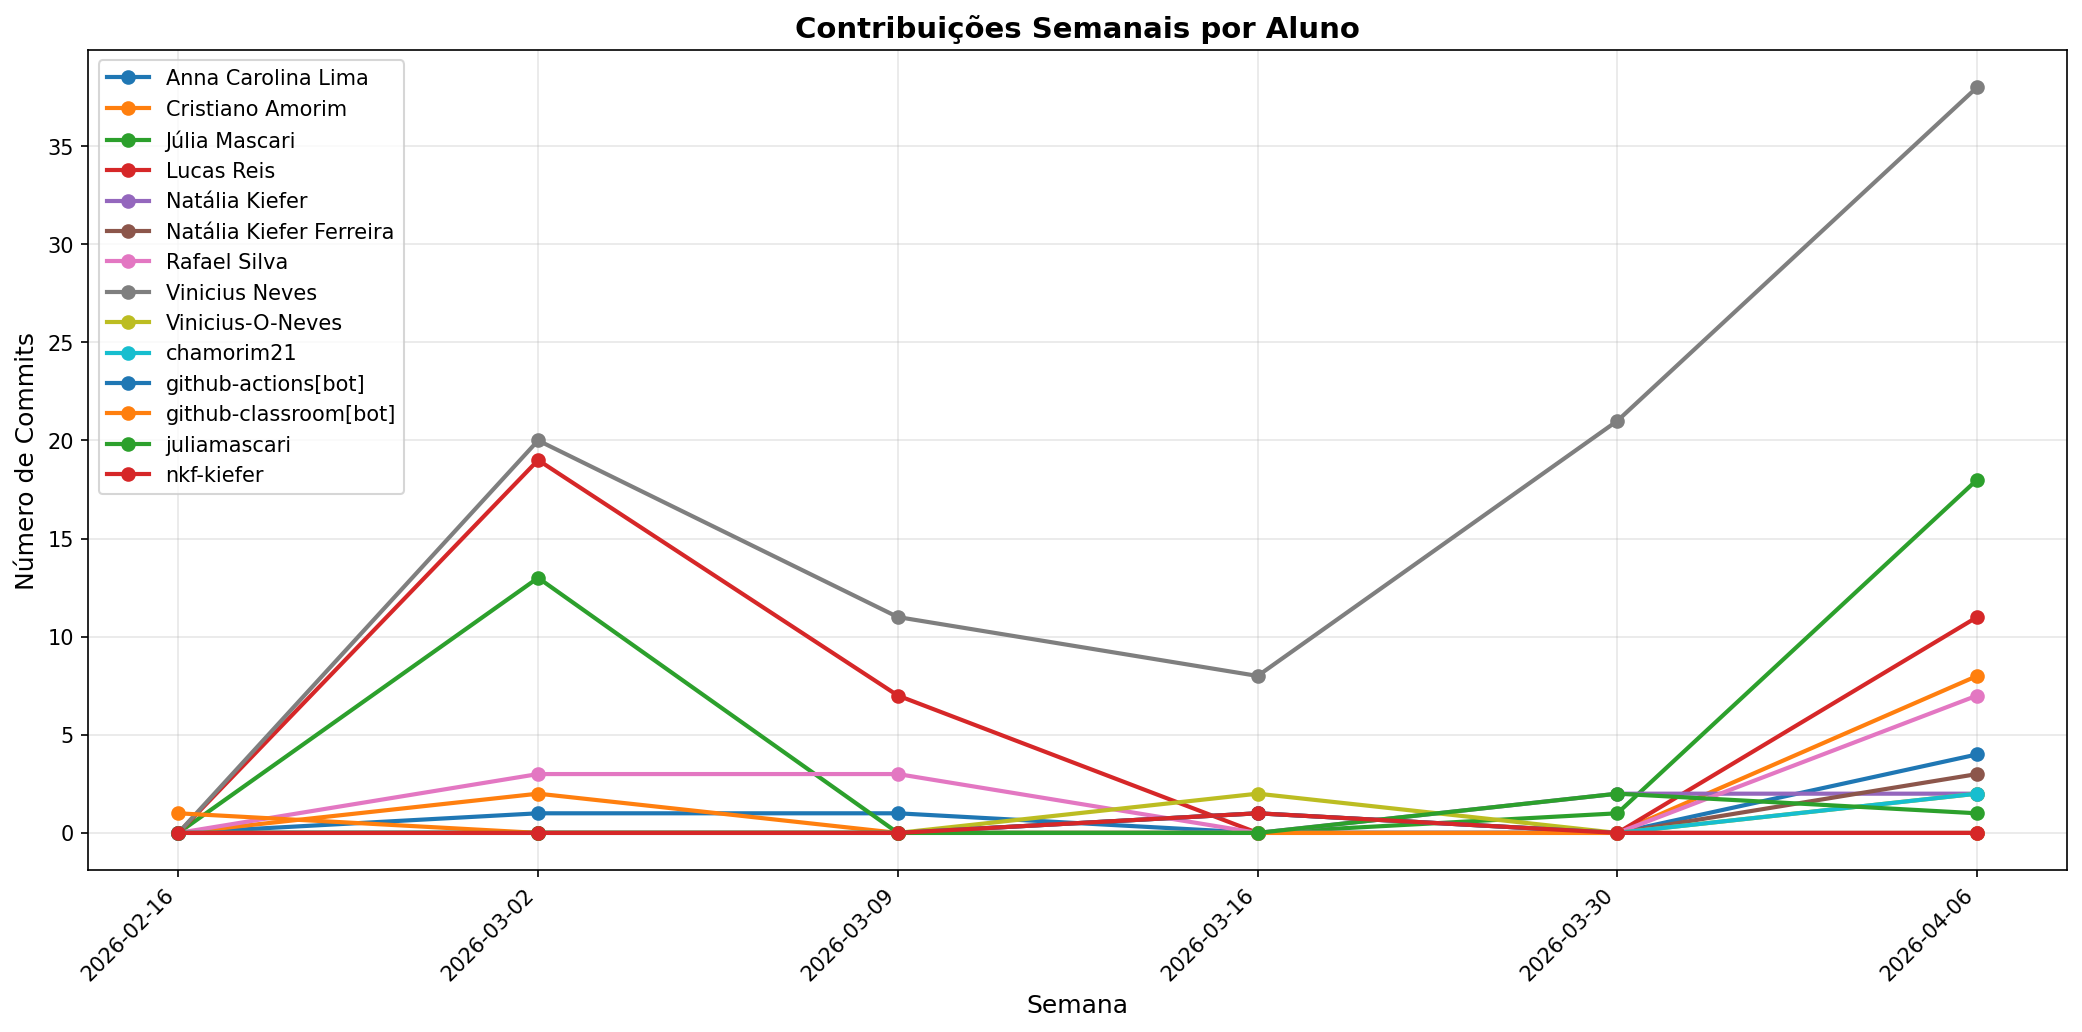
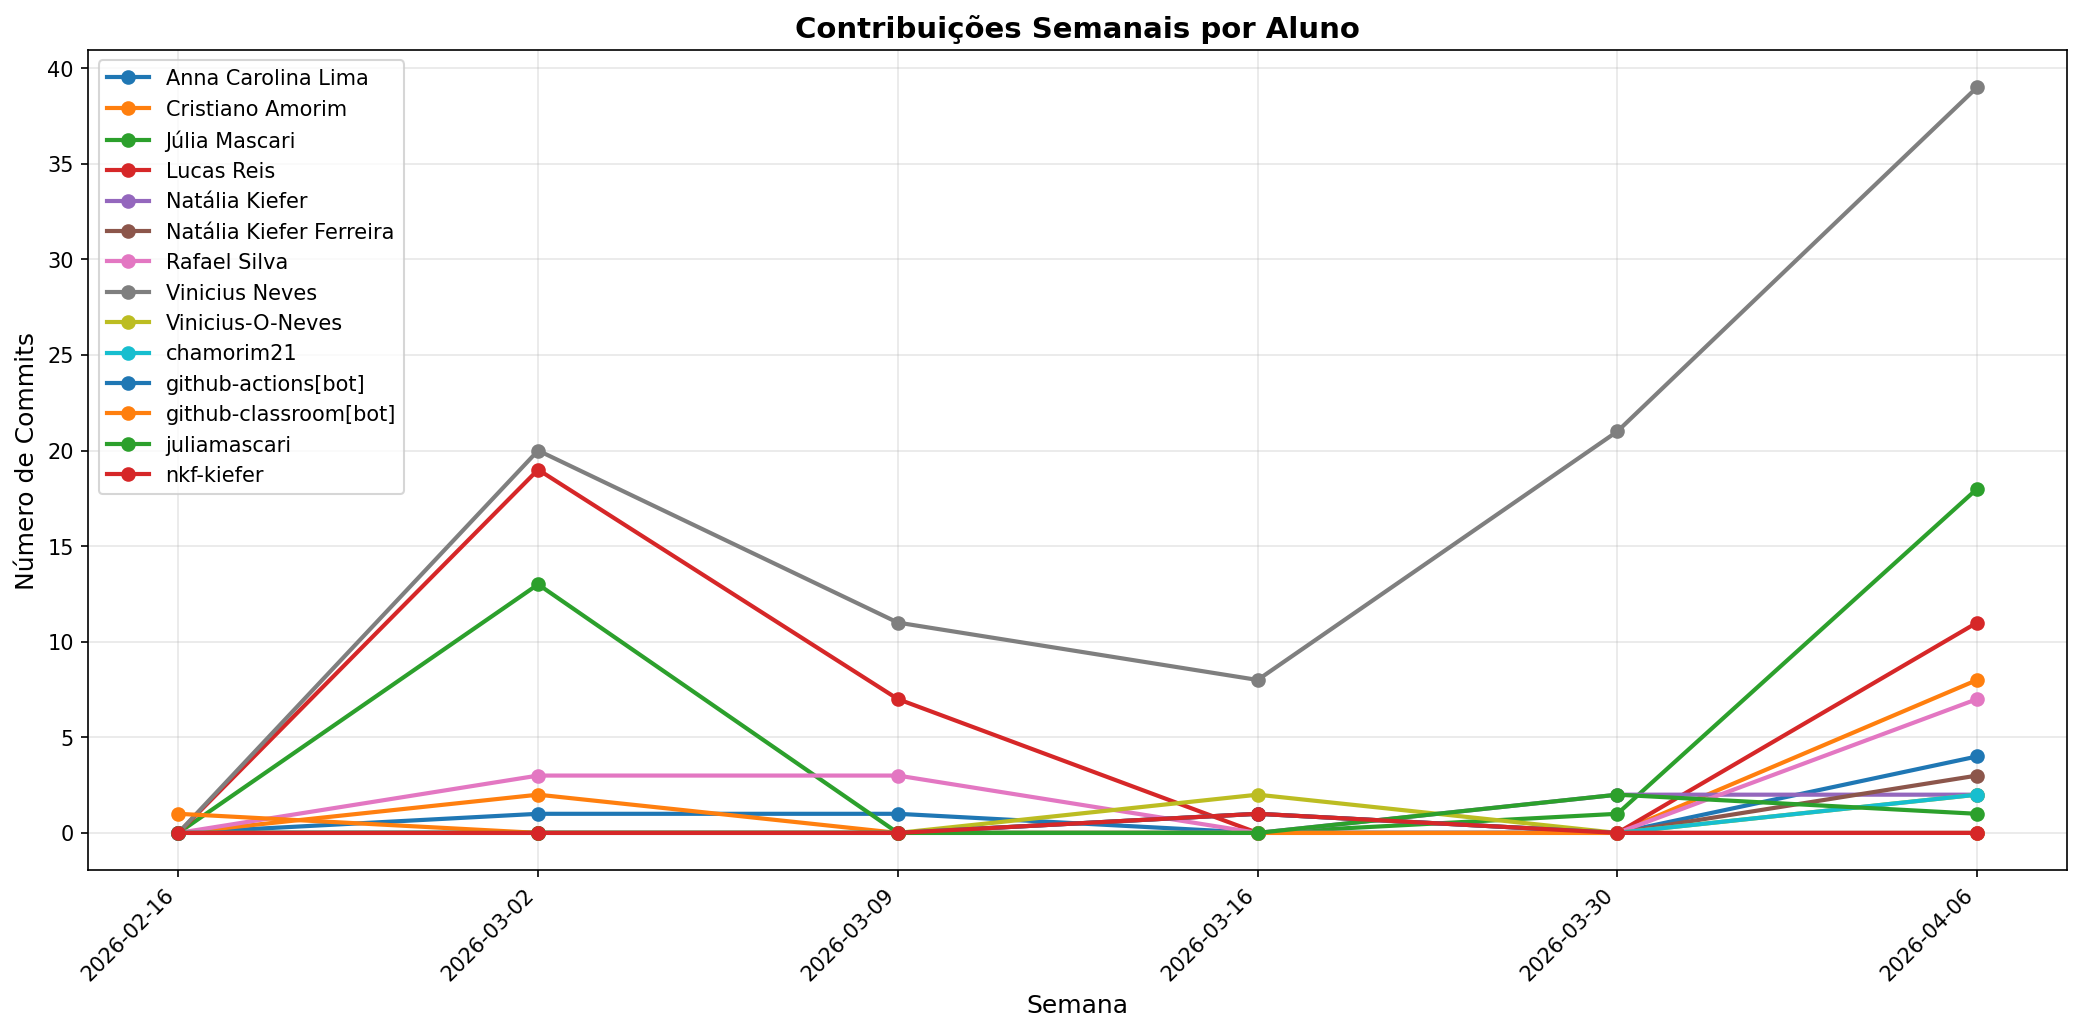
📊 docs: atualizar relatório de contribuições

diff --git a/docs/CONTRIBUTION_REPORT.md b/docs/CONTRIBUTION_REPORT.md
@@ -1,6 +1,6 @@
 # 📊 Relatório de Contribuições do Projeto
 
-**Última atualização:** 13/04/2026 16:17
+**Última atualização:** 13/04/2026 16:18
 
 ---
 
@@ -15,7 +15,7 @@
 | Natália Kiefer          |         4 |       853 |       255 |         18 |              1 |               1 |
 | Natália Kiefer Ferreira |         4 |        19 |        19 |          1 |              1 |               1 |
 | Rafael Silva            |        13 |      1011 |        60 |         48 |             12 |               4 |
-| Vinicius Neves          |        98 |   1302745 |   1291537 |       5732 |             31 |               6 |
+| Vinicius Neves          |        99 |   1302745 |   1291537 |       5732 |             31 |               6 |
 | Vinicius-O-Neves        |         4 |        31 |        19 |          4 |              2 |               1 |
 | chamorim21              |         2 |        28 |        20 |          3 |              2 |               1 |
 | github-actions[bot]     |         1 |        28 |        31 |          3 |              1 |               1 |
@@ -26,7 +26,7 @@
 
 ## 📅 Contribuições Semanais (Todo o Semestre)
 
-**2026-04-06**: Anna Carolina Lima: 4, Cristiano Amorim: 8, Júlia Mascari: 18, Lucas Reis: 11, Natália Kiefer: 2, Natália Kiefer Ferreira: 3, Rafael Silva: 7, Vinicius Neves: 38, Vinicius-O-Neves: 2, chamorim21: 2, juliamascari: 1
+**2026-04-06**: Anna Carolina Lima: 4, Cristiano Amorim: 8, Júlia Mascari: 18, Lucas Reis: 11, Natália Kiefer: 2, Natália Kiefer Ferreira: 3, Rafael Silva: 7, Vinicius Neves: 39, Vinicius-O-Neves: 2, chamorim21: 2, juliamascari: 1
 
 **2026-03-30**: Júlia Mascari: 1, Natália Kiefer: 2, Vinicius Neves: 21, juliamascari: 2
 
